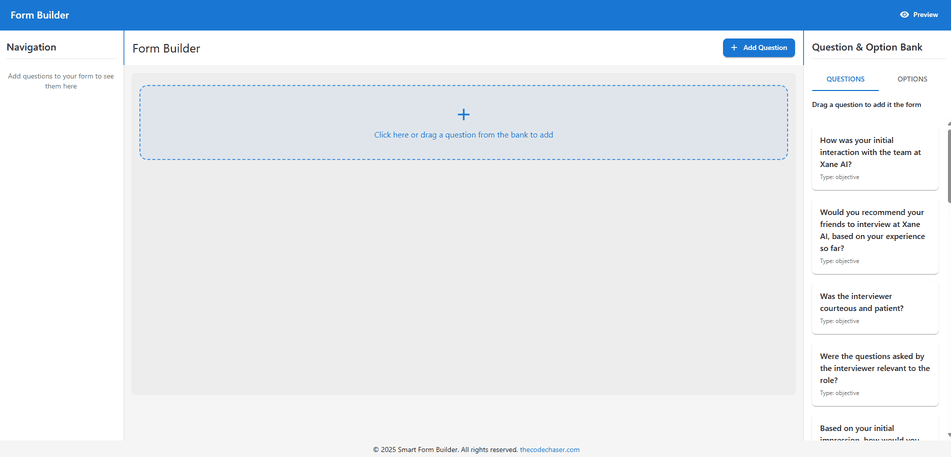
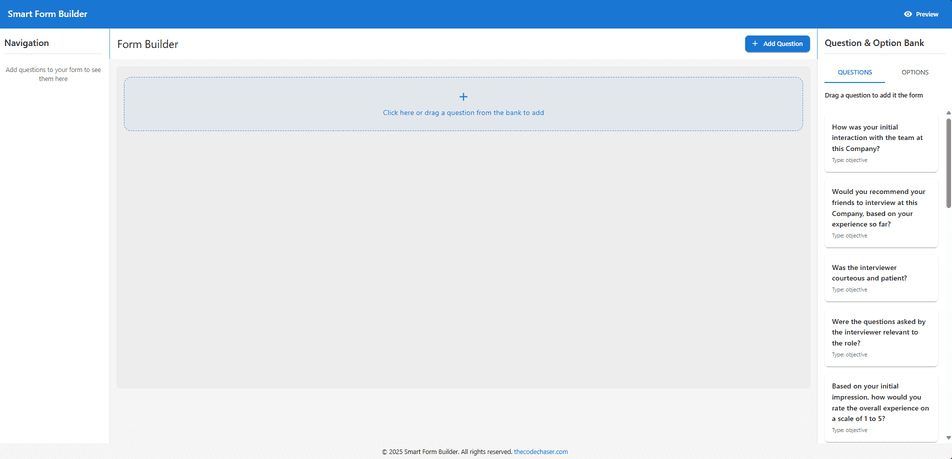
Few changes

diff --git a/src/data/bankData.js b/src/data/bankData.js
@@ -2,12 +2,12 @@
 export const QUESTION_BANK = [
   {
     id: 'q1',
-    text: 'How was your initial interaction with the team at Xane AI?',
+    text: 'How was your initial interaction with the team at this Company?',
     type: 'objective',
   },
   {
     id: 'q2',
-    text: 'Would you recommend your friends to interview at Xane AI, based on your experience so far?',
+    text: 'Would you recommend your friends to interview at this Company, based on your experience so far?',
     type: 'objective',
   },
   {
@@ -72,7 +72,7 @@ export const QUESTION_BANK = [
   },
   {
     id: 'q15',
-    text: 'How likely are you to consider working with Xane AI in the future?',
+    text: 'How likely are you to consider working with this Company in the future?',
     type: 'objective',
   },
   {

diff --git a/README.md b/README.md
@@ -96,7 +96,7 @@ Give a ⭐ if you like this project!
 
 ## Acknowledgments
 
-- Inspiration: Xane AI
+- Inspiration: Microverse
 
 ## 📝 License
 
